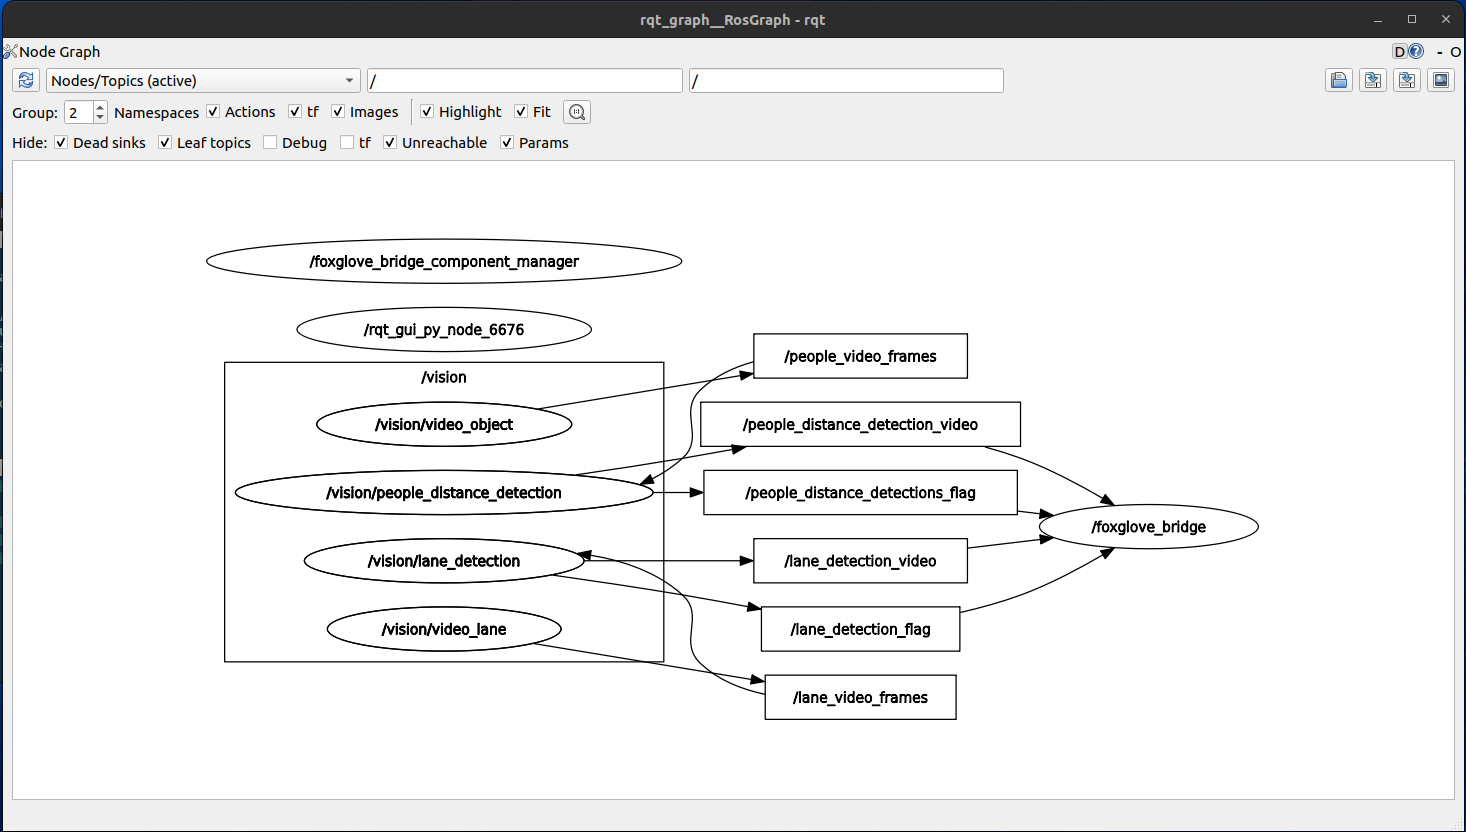
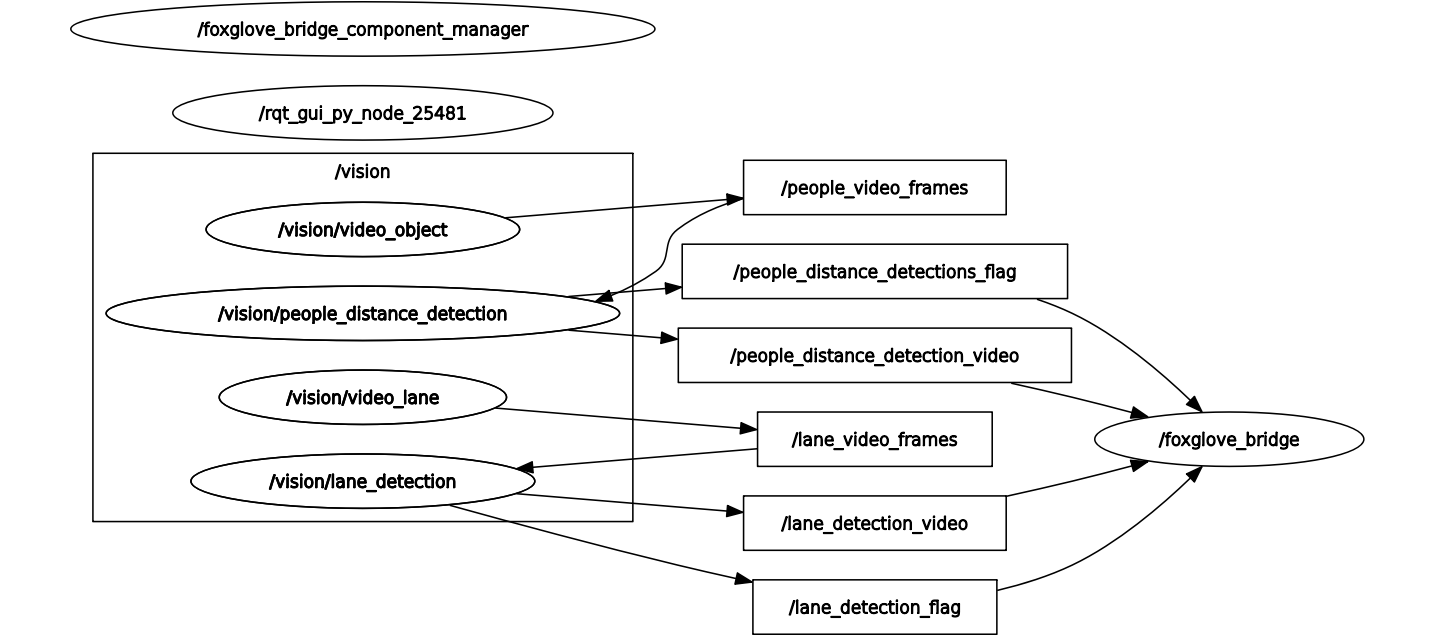
README Update

diff --git a/workspace/src/sdv_vision/README.md b/workspace/src/sdv_vision/README.md
@@ -2,7 +2,6 @@
 
 This package, ```sdv_vision```, provides functionality for sdv assistance, including lane detection, people distance detection, and video publishing for testing purposes.
 
-TODO: DEMO VIDEO
 
 ![vision_dashboard](https://github.com/vanttec/vanttec_sdv/blob/features/vision/workspace/src/sdv_vision/git_imgs/vision_dashboard.png)
 
@@ -95,9 +94,9 @@ ros2 run autonomous_vehicle_assistance video_pub
 
 | Name             | Description                                                                |
 | ----------------- | ------------------------------------------------------------------ |
-| _lane_detection_ | Determines the vehicle's lane state. |
-| _people_distance_detection_ | Detects people and assesses their distance from the vehicle. |
-| _video_pub_ | Publishes video frames for testing. |
+| [_lane_detection_](https://github.com/vanttec/vanttec_sdv/blob/features/vision/workspace/src/sdv_vision/yolov8_lane_detection/lane_detection.py) | Determines the vehicle's lane state. |
+| [_people_distance_detection_](https://github.com/vanttec/vanttec_sdv/blob/features/vision/workspace/src/sdv_vision/yolov8_object_detection/people_distance_detection.py) | Detects people and assesses their distance from the vehicle. |
+| [_video_pub_](https://github.com/vanttec/vanttec_sdv/blob/features/vision/workspace/src/sdv_vision/yolov8_lane_detection/video_pub.py) | Publishes video frames for testing. |
 
 
 ## Parameters
@@ -151,13 +150,13 @@ ros2 run autonomous_vehicle_assistance video_pub
 | `/video_frames` | `sensor_msgs/Image` | Frames from the video stream to be published. | Publisher |
 
 ## Launch Files
-### vision_testing.launch.py
+### [vision_testing.launch.py](https://github.com/vanttec/vanttec_sdv/blob/features/vision/workspace/src/sdv_vision/launch/vision_testing.launch.py)
 This file is used to launch the vision nodes for testing purposes. The nodes launched are:
 - video_publisher (2 instances)
 - lane_detection
 - people_distance_detections
 
-### vision.launch.py
+### [vision.launch.py](https://github.com/vanttec/vanttec_sdv/blob/features/vision/workspace/src/sdv_vision/launch/vision.launch.py)
 This launch file is designed to initiate the vision-related nodes for real-time execution in the system, assuming an incoming image stream from the Multisense camera. The nodes launched are:
 - lane_detection
 - people_distance_detections
